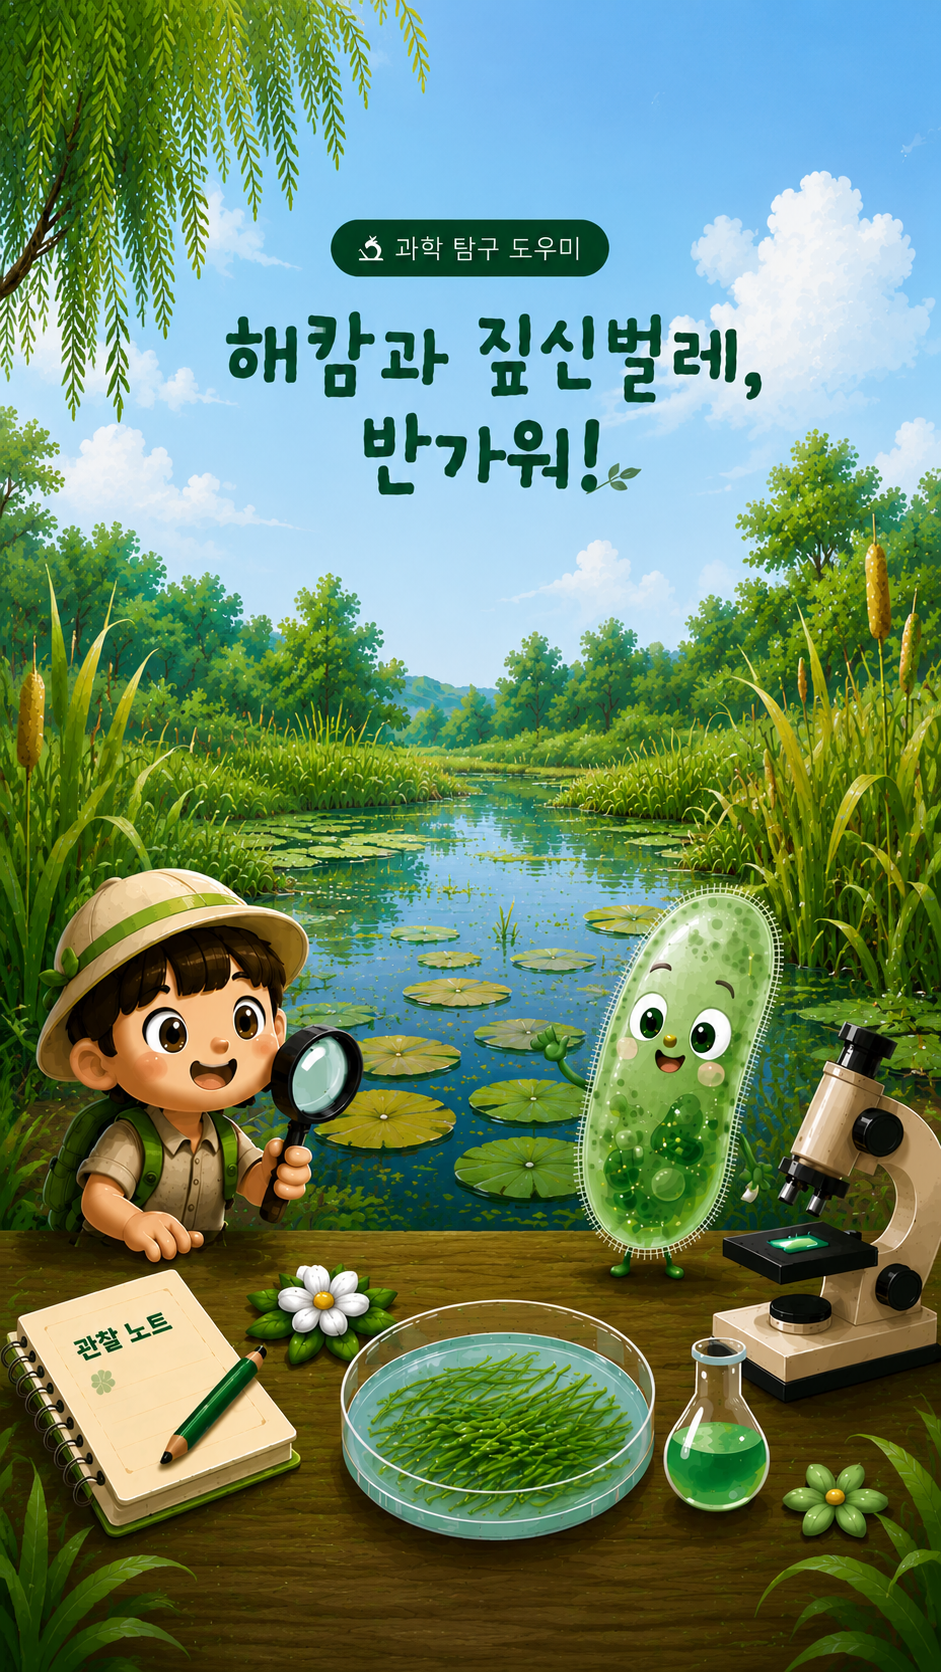
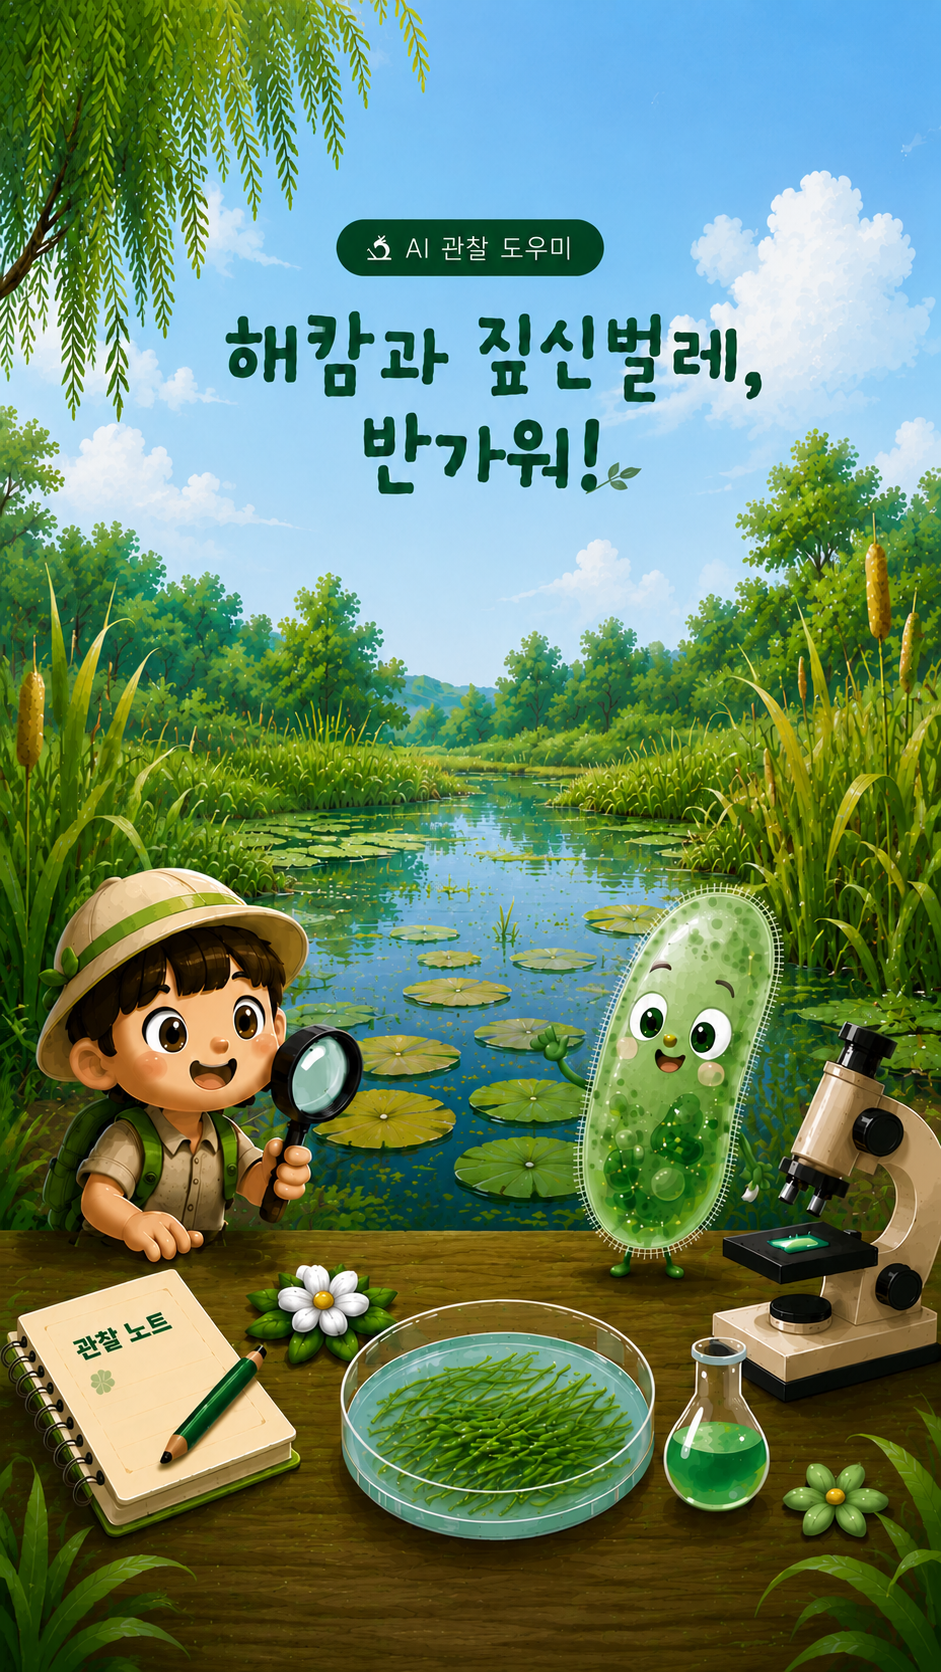
이미지 변경

diff --git a/index.html b/index.html
@@ -671,7 +671,7 @@ body.rtc-lock{ overflow:hidden; }
 <div id="mainApp" style="display:none;">
 
 <header>
-  <div class="header-pill">🔬 과학 탐구 도우미</div>
+  <div class="header-pill">🔬 AI 관찰 도우미</div>
   <h1>해캄과 짚신벌레, 반가워!</h1>
   <p>활동지 사진을 올리면 AI가<br>더 관찰할 부분을 알려줄게요 🌿</p>
 </header>
